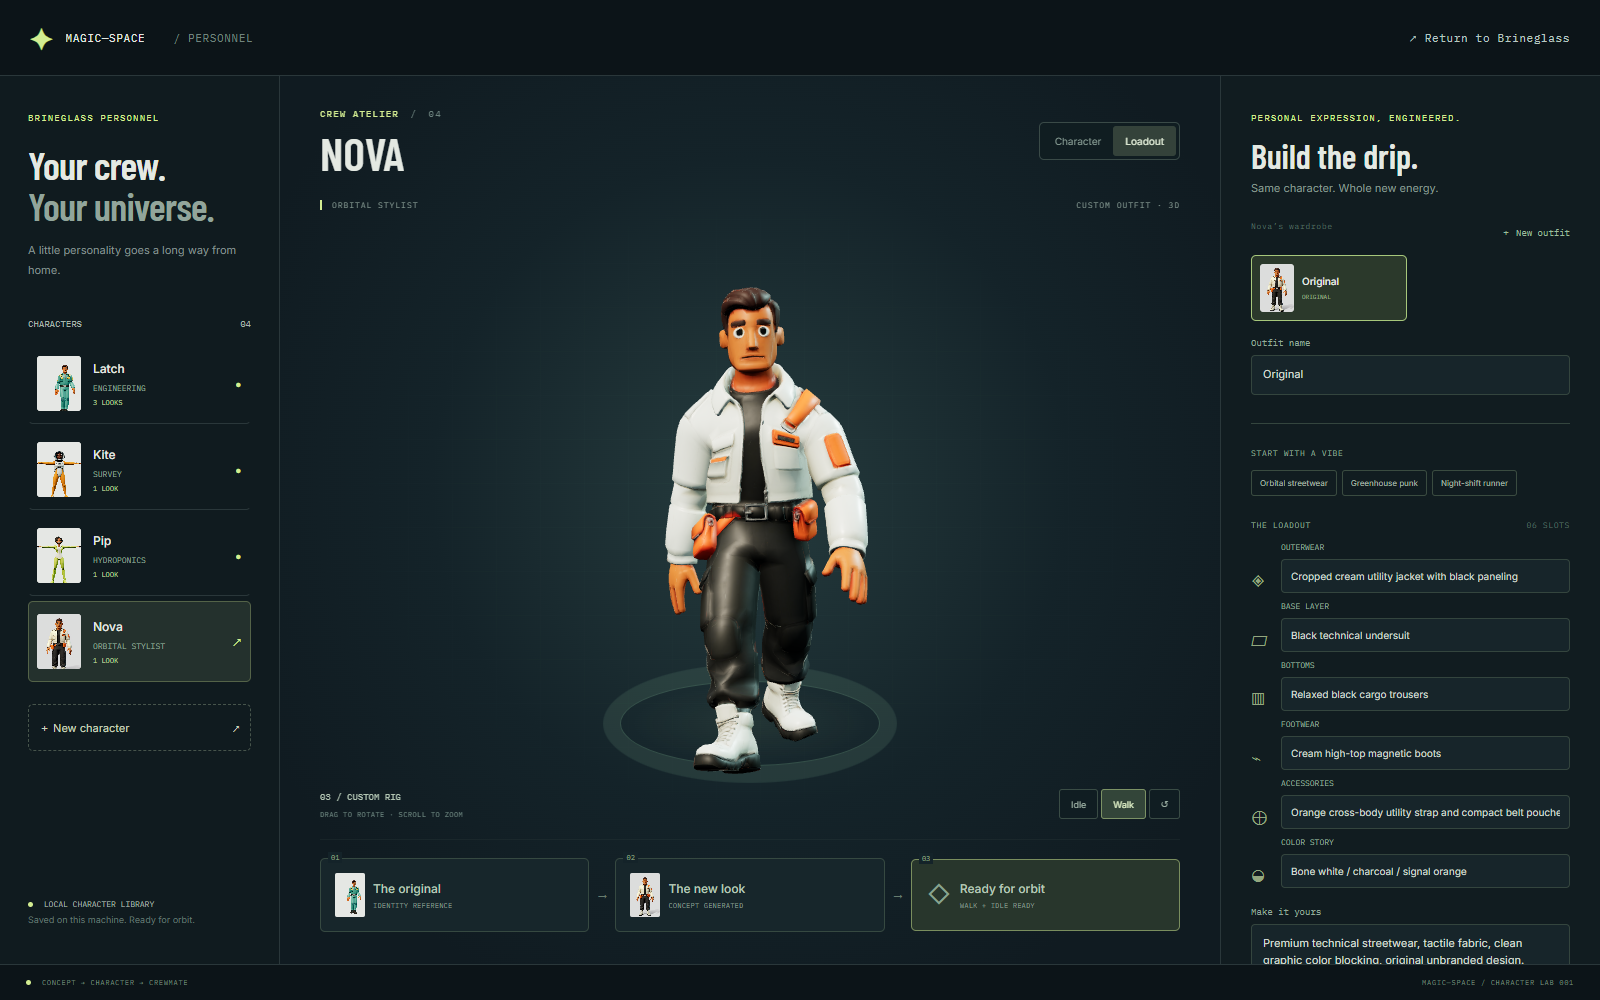
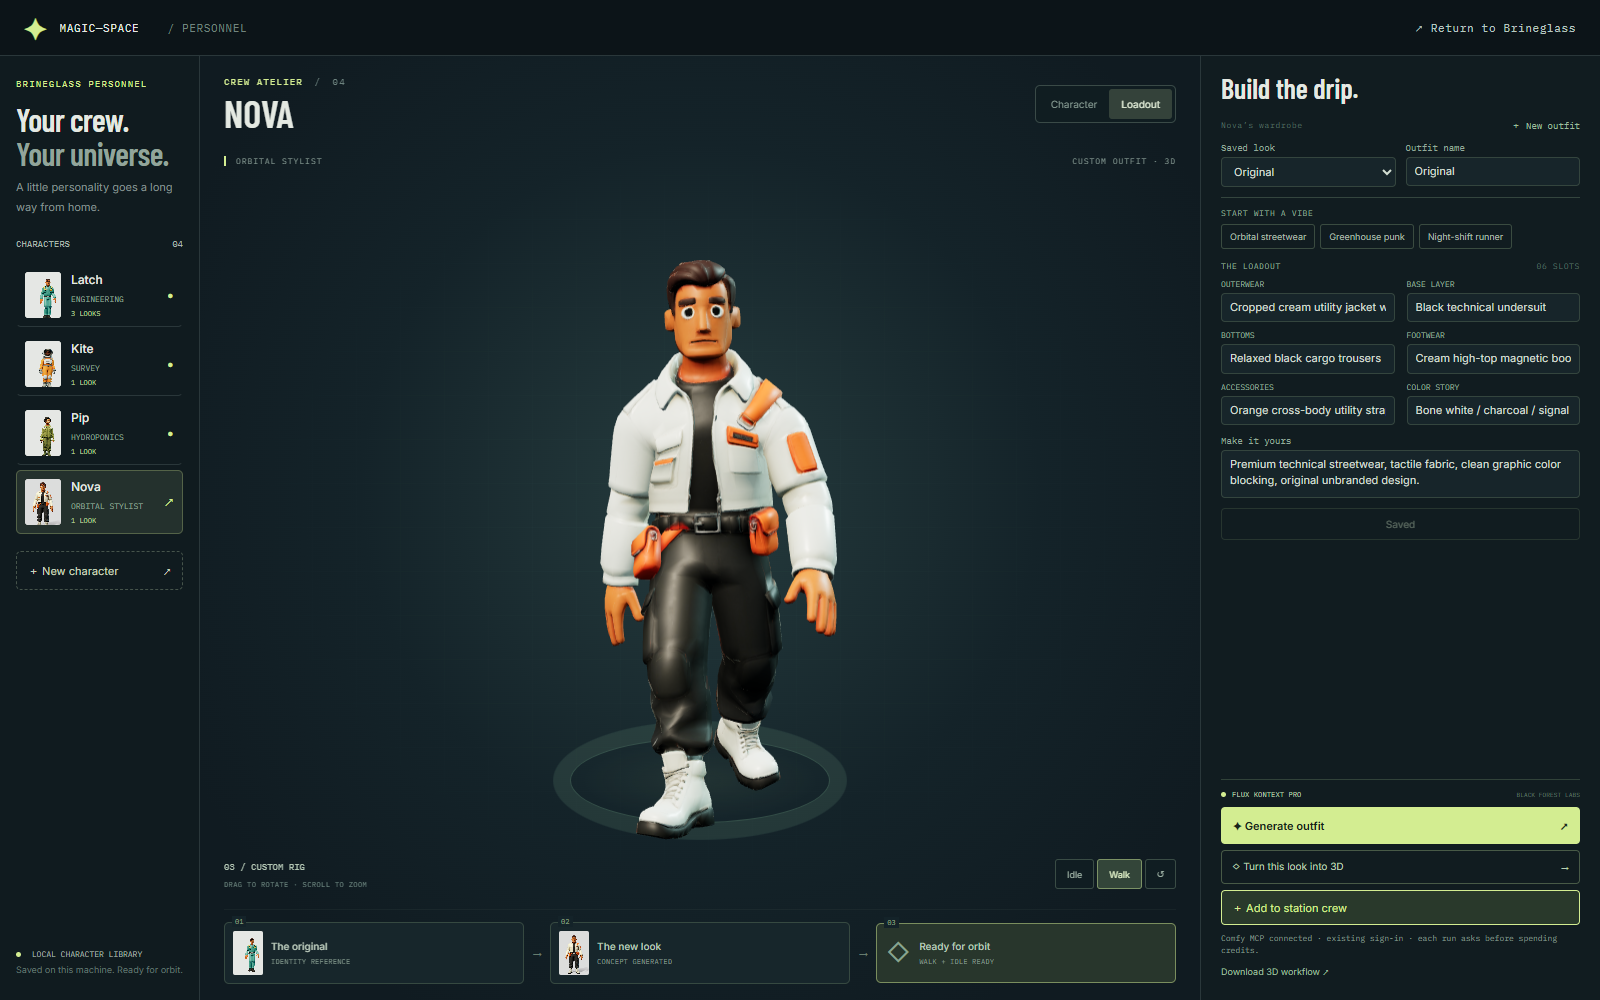
Remove character footer and fit desktop studio to viewport

diff --git a/characters/index.html b/characters/index.html
@@ -1,4 +1,4 @@
-<!doctype html><html lang="en"><head><meta charset="utf-8"><meta name="viewport" content="width=device-width,initial-scale=1"><title>Crew atelier / Magic-Space</title><link rel="stylesheet" href="/characters/style.css"></head><body>
+<!doctype html><html lang="en"><head><meta charset="utf-8"><meta name="viewport" content="width=device-width,initial-scale=1"><title>Crew atelier / Magic-Space</title><link rel="stylesheet" href="/characters/style.css"><link rel="stylesheet" href="/characters/viewport.css"></head><body>
 <header><a class="brand" href="/station"><b>✦</b> MAGIC—SPACE <span>/ PERSONNEL</span></a><a href="/station" class="return">↗ Return to Brineglass</a></header>
 <main class="workspace">
 <aside class="roster"><div class="eyebrow">BRINEGLASS PERSONNEL</div><h1>Your crew.<br><em>Your universe.</em></h1><p class="subtle">A little personality goes a long way from home.</p><div class="roster-heading"><span>CHARACTERS</span><span id="crew-count">03</span></div><div id="roster-list"></div><button id="new-character" class="new-character">＋ New character <span>↗</span></button><div class="roster-bottom"><span class="dot"></span> LOCAL CHARACTER LIBRARY<br><small>Saved on this machine. Ready for orbit.</small></div></aside>
@@ -13,7 +13,6 @@
 <div class="generation"><div class="engine"><span class="dot"></span><span>FLUX KONTEXT PRO</span><span>BLACK FOREST LABS</span></div><button id="generate-look" class="primary">✦ Generate outfit <span>↗</span></button><button id="generate-model" class="secondary wide">◇ Turn this look into 3D <span>→</span></button><button id="deploy" class="deploy wide" hidden>＋ Add to station crew</button><p id="connection-note" class="connection-note"></p><div id="job-status" role="status" aria-live="polite"></div><button id="export-workflow" class="text-button">Download Comfy workflow ↗</button></div>
 <div id="recovery" hidden><label>Matching Comfy job ID<input id="recover-id" placeholder="UUID from your Comfy job history"></label><button id="recover-job" class="secondary">Attach existing job · no new generation</button></div>
 </aside></main>
-<footer><span><i class="dot"></i> CONCEPT → CHARACTER → CREWMATE</span><span>MAGIC—SPACE / CHARACTER LAB 001</span></footer>
 <div id="toast" role="status" hidden></div>
 <dialog id="new-dialog"><form id="new-form"><button class="dialog-close" type="button" id="new-close" aria-label="Close">×</button><div class="eyebrow">ANOTHER LIFE IN ORBIT</div><h2>Meet your next crewmate.</h2><label>Callsign<input id="new-name" placeholder="e.g. Nova" maxlength="60" required></label><label>Start from<select id="new-base"></select></label><p>The selected character becomes your starting reference. Design an outfit, generate its image, then build the rigged 3D character.</p><button class="primary" type="submit">Create character →</button></form></dialog>
 <dialog id="spend-dialog"><div class="eyebrow">COMFY CLOUD GENERATION</div><h2 id="spend-title">Generate an outfit?</h2><p id="spend-description"></p><p>This spends Comfy credits at the provider's current rates.</p><div class="dialog-actions"><button id="spend-cancel" class="secondary">Cancel</button><button id="spend-confirm" class="primary">Confirm & generate</button></div></dialog>

diff --git a/characters/viewport.css b/characters/viewport.css
@@ -1,0 +1,73 @@
+/* A viewport-sized desktop workbench, with every primary action in view. */
+.outfit-picker{display:none}
+@media(min-width:1050px){
+  header{height:56px;padding:0 24px}
+  .workspace{height:calc(100dvh - 56px);min-height:0;grid-template-columns:200px minmax(300px,1fr) 400px}
+  .roster,.studio,.editor{min-height:0}
+  .roster{padding:22px 16px}
+  .roster h1{font-size:32px;margin:14px 0 8px}
+  .roster .subtle{margin-bottom:20px}
+  #roster-list{min-height:0;overflow:auto}
+  .roster-card{padding:8px;gap:10px}
+  .roster-card img{width:36px;height:46px}
+  .roster-bottom{padding-top:16px}
+  .new-character{flex-shrink:0;padding:11px;margin-top:12px}
+  .studio{padding:20px 24px 16px}
+  .studio-heading h2{font-size:38px;margin-top:8px}
+  .stage{min-height:0}
+  .visual-pipeline{padding-top:12px;flex-shrink:0}
+  .pipeline-step{min-height:60px;padding:8px}
+  .pipeline-step b{font-size:10px}
+  .editor{padding:18px 20px;max-height:none;display:flex;flex-direction:column;overflow:auto}
+  .editor-header{margin-bottom:12px}
+  .editor-header .eyebrow,.editor-header p{display:none}
+  .editor-header h2{font-size:28px;line-height:1;margin:0}
+  .wardrobe{margin-bottom:10px;padding-bottom:10px}
+  .wardrobe .section-label{margin:0 0 6px;align-items:center}
+  #outfit-list{display:none}
+  .outfit-picker{display:block}
+  .wardrobe{display:grid;grid-template-columns:1fr 1fr;gap:0 10px}
+  .wardrobe>.section-label{grid-column:1/-1}
+  .wardrobe label{min-width:0;margin-bottom:0}
+  label{margin-bottom:8px}
+  input,select,textarea{margin-top:4px;padding:6px 8px;font-size:11px;line-height:1.4}
+  .preset-label{margin-bottom:6px}
+  #presets button{font-size:9px;padding:6px 8px}
+  .section-label{margin:12px 0 8px}
+  #slots{display:grid;grid-template-columns:1fr 1fr;gap:8px 12px}
+  #slots label{padding-left:0;margin:0;min-width:0}
+  #slots label:before{display:none}
+  #slots input{padding:6px 8px;font-size:11px;margin-top:4px}
+  .notes-label{margin:10px 0 0}
+  #notes{height:48px;min-height:40px;resize:none}
+  #semantic{height:100px;resize:none}
+  .form-actions{margin:10px 0}
+  .secondary{padding:9px 10px}
+  .generation{margin-top:auto;padding-top:10px;flex-shrink:0}
+  .engine{margin-bottom:8px}
+  .primary{padding:11px 12px}
+  .wide{margin-top:6px}
+  .deploy{padding:9px 10px}
+  .connection-note{margin:7px 0 3px;line-height:1.5}
+  #job-status{max-height:46px;overflow:auto;font-size:8px;line-height:1.4}
+  #recovery{margin-top:8px}
+  #recovery label{margin-bottom:4px}
+  .upload-control{padding:8px}
+}
+@media(min-width:1050px) and (max-height:800px){
+  .editor{padding:12px 16px}
+  .editor-header{margin-bottom:8px}
+  .editor-header h2{font-size:24px}
+  .roster h1{font-size:28px}
+  .roster .subtle{display:none}
+  .roster-heading{margin-top:16px}
+  .wardrobe{margin-bottom:8px;padding-bottom:8px}
+  #slots{gap:6px 10px}
+  .section-label{margin:8px 0 6px}
+  .notes-label{margin-top:8px}
+  #notes{height:40px}
+  .form-actions{margin:8px 0}
+  .generation{padding-top:8px}
+  .engine{display:none}
+  .connection-note{font-size:7px}
+}

diff --git a/README.md b/README.md
@@ -287,7 +287,7 @@ Open **http://127.0.0.1:4194/characters**. The original three crew are reusable 
 
 ### Default character → new drip → 3D
 
-1. The roster lists **one entry per character**. Select a character to see their saved looks in **Loadout → wardrobe**. **New outfit** creates another look for that same person; editing an original saves a new outfit automatically. Name your outfits and switch between their thumbnails. Existing automatic “Latch II” copies appear as looks under Latch, with their assets and job history retained. **New character** is reserved for creating a separately named recruit.
+1. The roster lists **one entry per character**. Select a character to see their saved looks in **Loadout → wardrobe**. **New outfit** creates another look for that same person; editing an original saves a new outfit automatically. Name your outfits and choose a **Saved look** on desktop (thumbnail cards on narrow screens). Existing automatic “Latch II” copies appear as looks under Latch, with their assets and job history retained. **New character** is reserved for creating a separately named recruit.
 2. **Generate outfit** sends the character reference and wardrobe description to **FLUX Kontext Pro**. The identity-preserving prompt keeps the face/hair/body while redesigning clothing. Review the actual result under **The new look**.
 3. **Turn this look into 3D** sends that approved image to **Tripo P2 Image to Model**, then rigs a biped skeleton and retargets walk and idle clips. Both GLBs must contain skins and animation before deployment is enabled.
 4. Preview the actual mesh, rotate/zoom it, and switch **Idle / Walk**. **Wear this outfit on station** equips an existing crewmate; it replaces their look rather than spawning another person. You can also re-equip their original. **Add to station crew** adds a separately named recruit. Open or reload `/station` to apply the change; new recruits follow their base crew member's routine.
